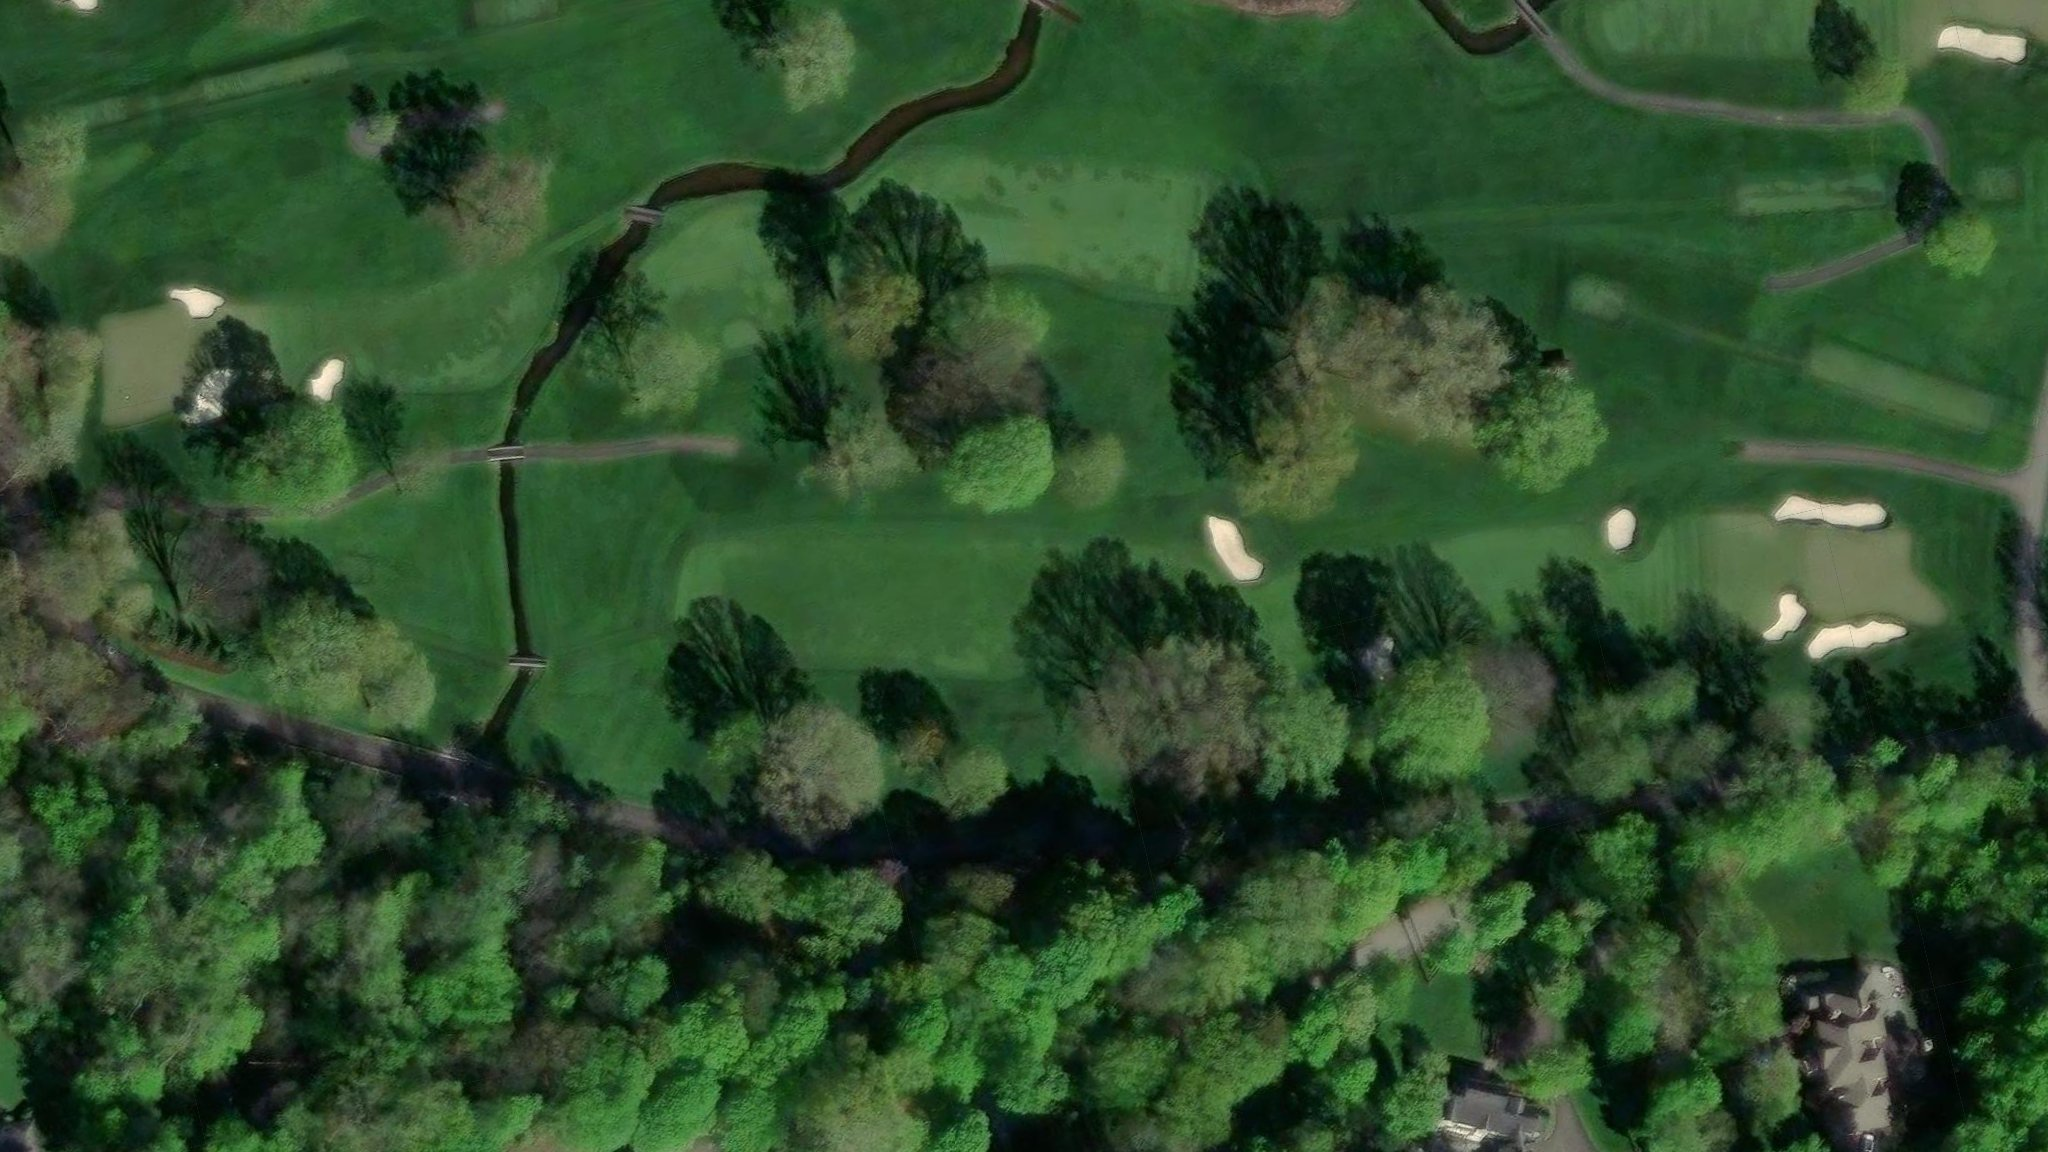
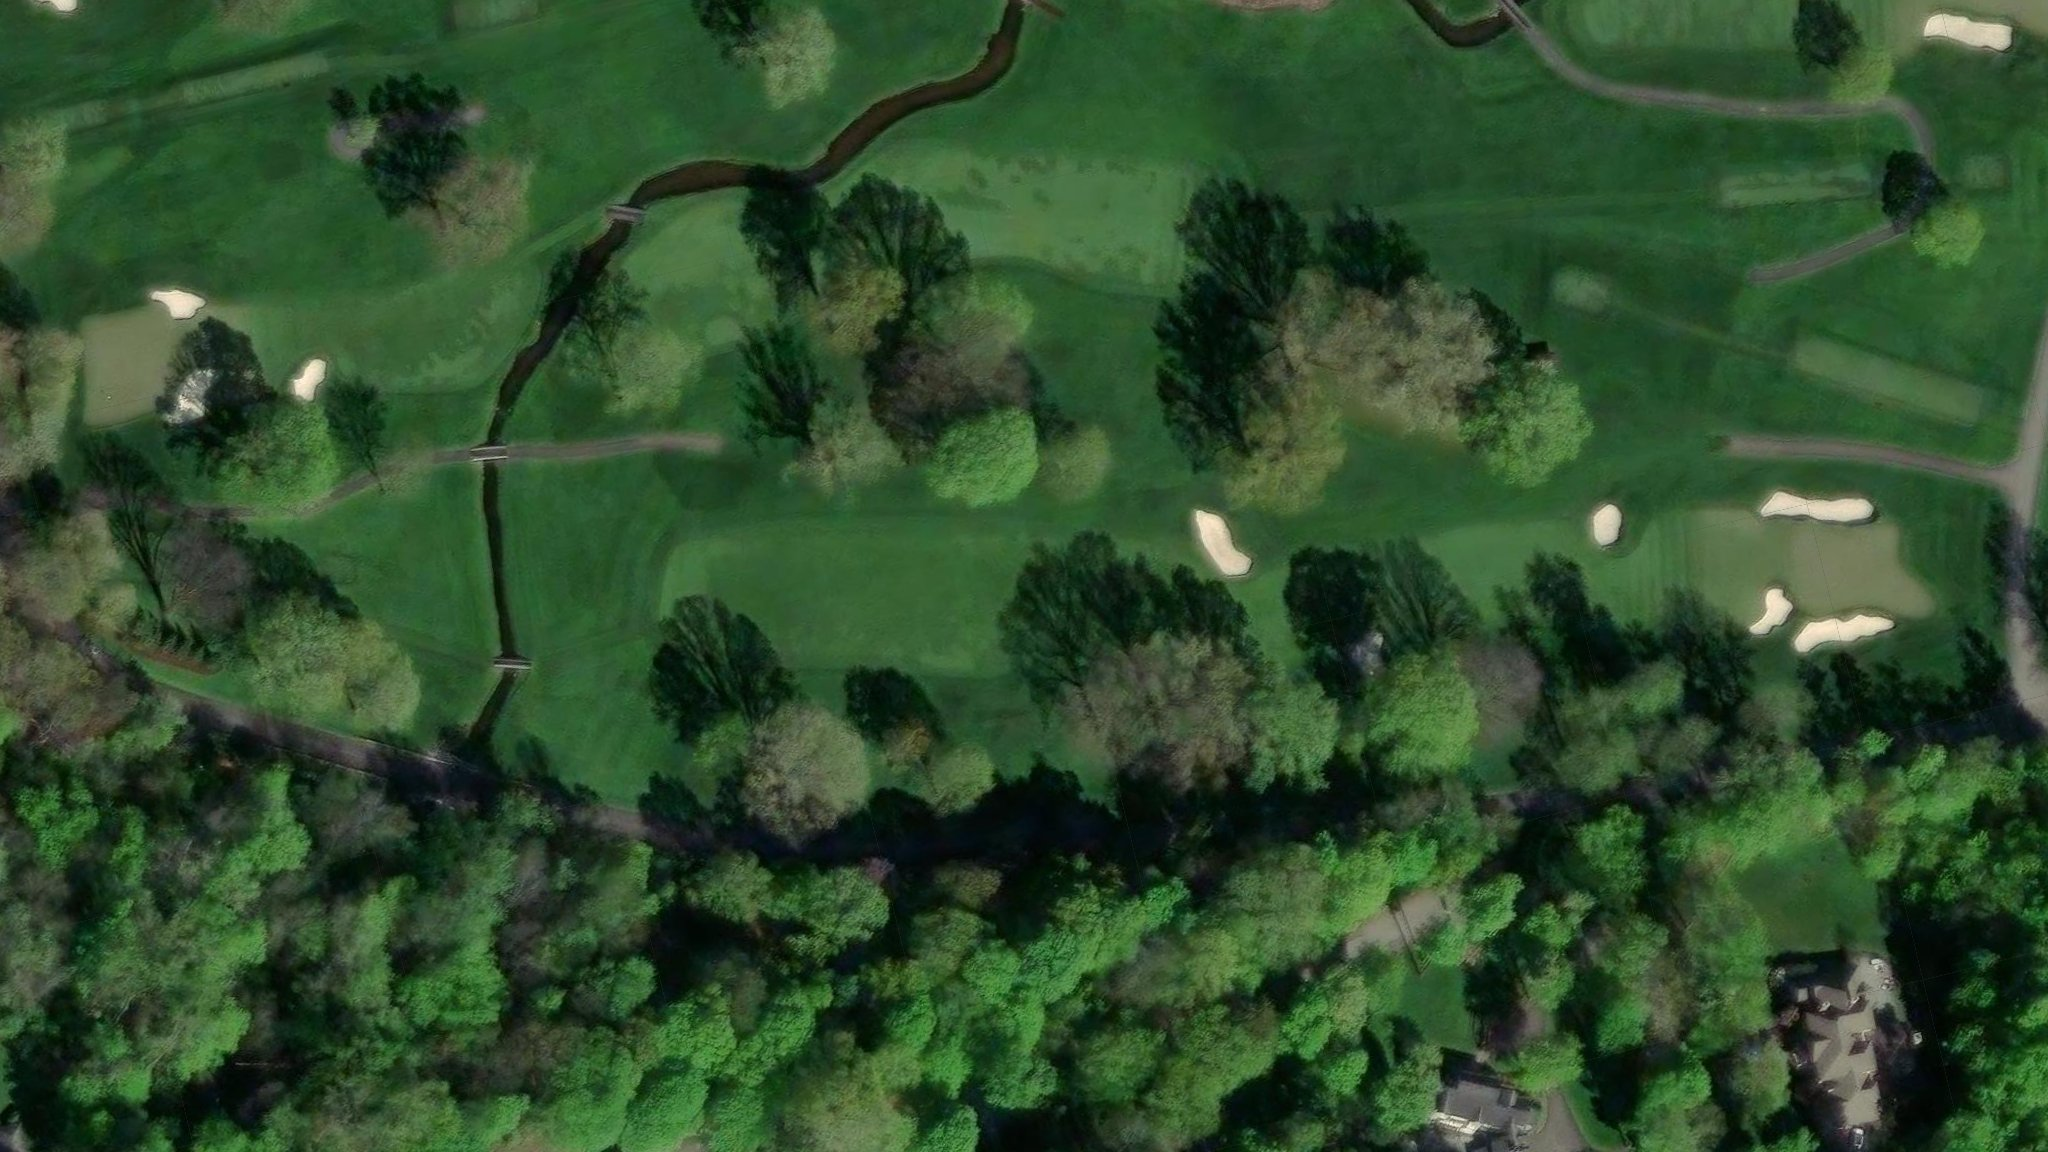
Marshal guide: 7 hole images, 36 stations (+1 image file)

diff --git a/js/holes-data.js b/js/holes-data.js
@@ -1,5 +1,5 @@
 // Hole images and marshal stations.
-// Saved from admin.html on 2026-08-25T00:31:31.874Z
+// Saved from admin.html on 2026-08-25T00:37:45.234Z
 const HOLES_DATA = {
   "east": {
     "name": "Oak Hill East",
@@ -317,26 +317,8 @@ const HOLES_DATA = {
             }
           ]
         },
-        "image": {
-          "src": "images/holes/east-06.jpg",
-          "width": 2048,
-          "height": 1152,
-          "tee": {
-            "x": 0.08000000000024449,
-            "y": 0.5000000000026269
-          },
-          "green": {
-            "x": 0.9200000000002444,
-            "y": 0.5000000000026268
-          },
-          "shots": [
-            {
-              "x": 0.5961301741291658,
-              "y": 0.34309619299823074
-            }
-          ]
-        },
-        "imageReady": true,
+        "image": null,
+        "imageReady": false,
         "spotsDone": false,
         "lengthYards": 508.87380108522206
       },
@@ -417,19 +399,19 @@ const HOLES_DATA = {
         "source": {
           "kind": "satellite",
           "tee": {
-            "lat": 43.119344288878224,
-            "lng": -77.52756581273243
+            "lat": 43.119318307204985,
+            "lng": -77.52756491858761
           },
           "green": {
-            "lat": 43.115921204602124,
-            "lng": -77.52867674790134
+            "lat": 43.11590841292472,
+            "lng": -77.52870294973624
           },
           "bearingNudge": 0,
           "zoomNudge": 0,
           "shots": [
             {
-              "lat": 43.11717275390466,
-              "lng": -77.52844682572898
+              "lat": 43.1173313016639,
+              "lng": -77.52835164404786
             }
           ]
         },
@@ -438,23 +420,23 @@ const HOLES_DATA = {
           "width": 2048,
           "height": 1152,
           "tee": {
-            "x": 0.07999999999790386,
-            "y": 0.499999999997701
+            "x": 0.08000000000000002,
+            "y": 0.4999999999999999
           },
           "green": {
-            "x": 0.9199999999979038,
-            "y": 0.4999999999977009
+            "x": 0.92,
+            "y": 0.5
           },
           "shots": [
             {
-              "x": 0.619966077483444,
-              "y": 0.5531436535333679
+              "x": 0.574598302636428,
+              "y": 0.5372883651533439
             }
           ]
         },
         "imageReady": true,
         "spotsDone": false,
-        "lengthYards": 428.9590191710219
+        "lengthYards": 427.33287990350675
       },
       {
         "number": 9,
